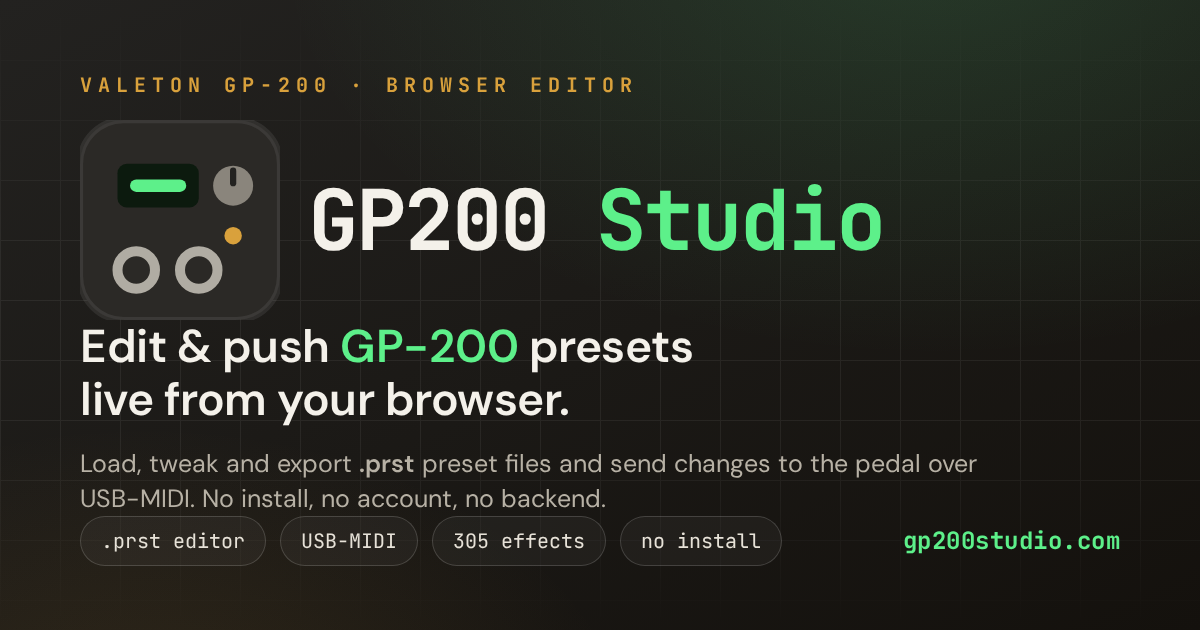
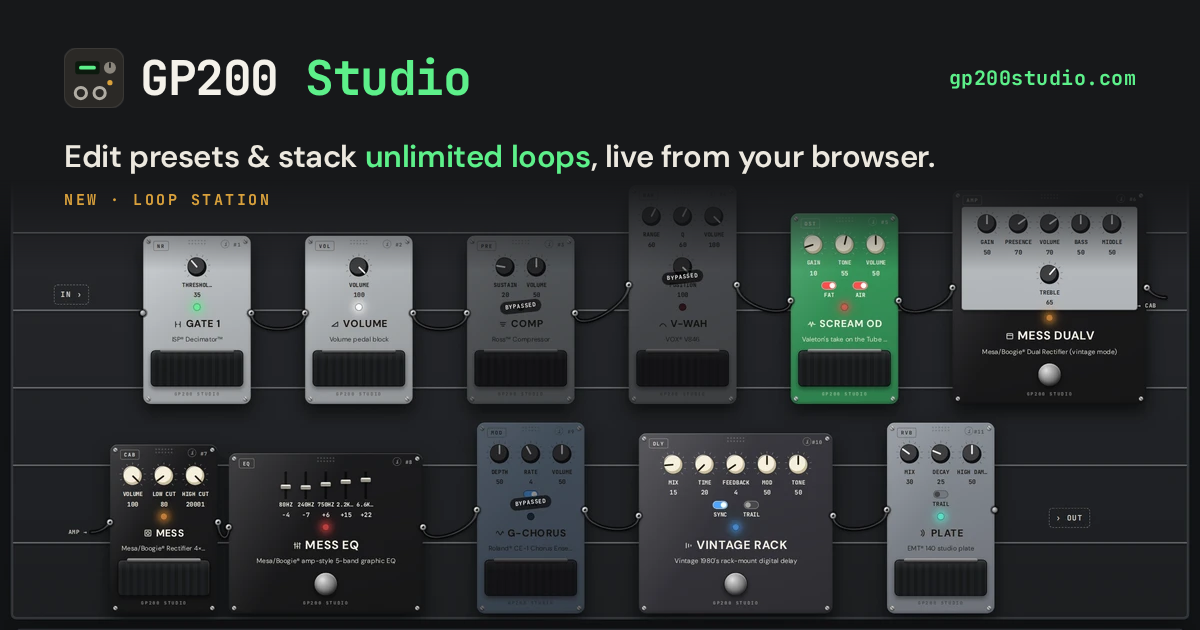
feat: update Open Graph image generation and description for enhanced SEO

diff --git a/src/seo/site.ts b/src/seo/site.ts
@@ -4,7 +4,7 @@ export const ORIGIN = 'https://gp200studio.com';
 export const SITE_NAME = 'GP200 Studio';
 export const OG_IMAGE = `${ORIGIN}/og-image.png`;
 export const OG_IMAGE_ALT =
-  'GP200 Studio: edit and push Valeton GP-200 presets live from your browser.';
+  'GP200 Studio: the Valeton GP-200 pedalboard editor with its pedals and patch cables. Edit presets and stack unlimited loops with the new loop station, live from your browser.';
 
 export const AUTHOR = {
   name: 'Kabir Tamari',
